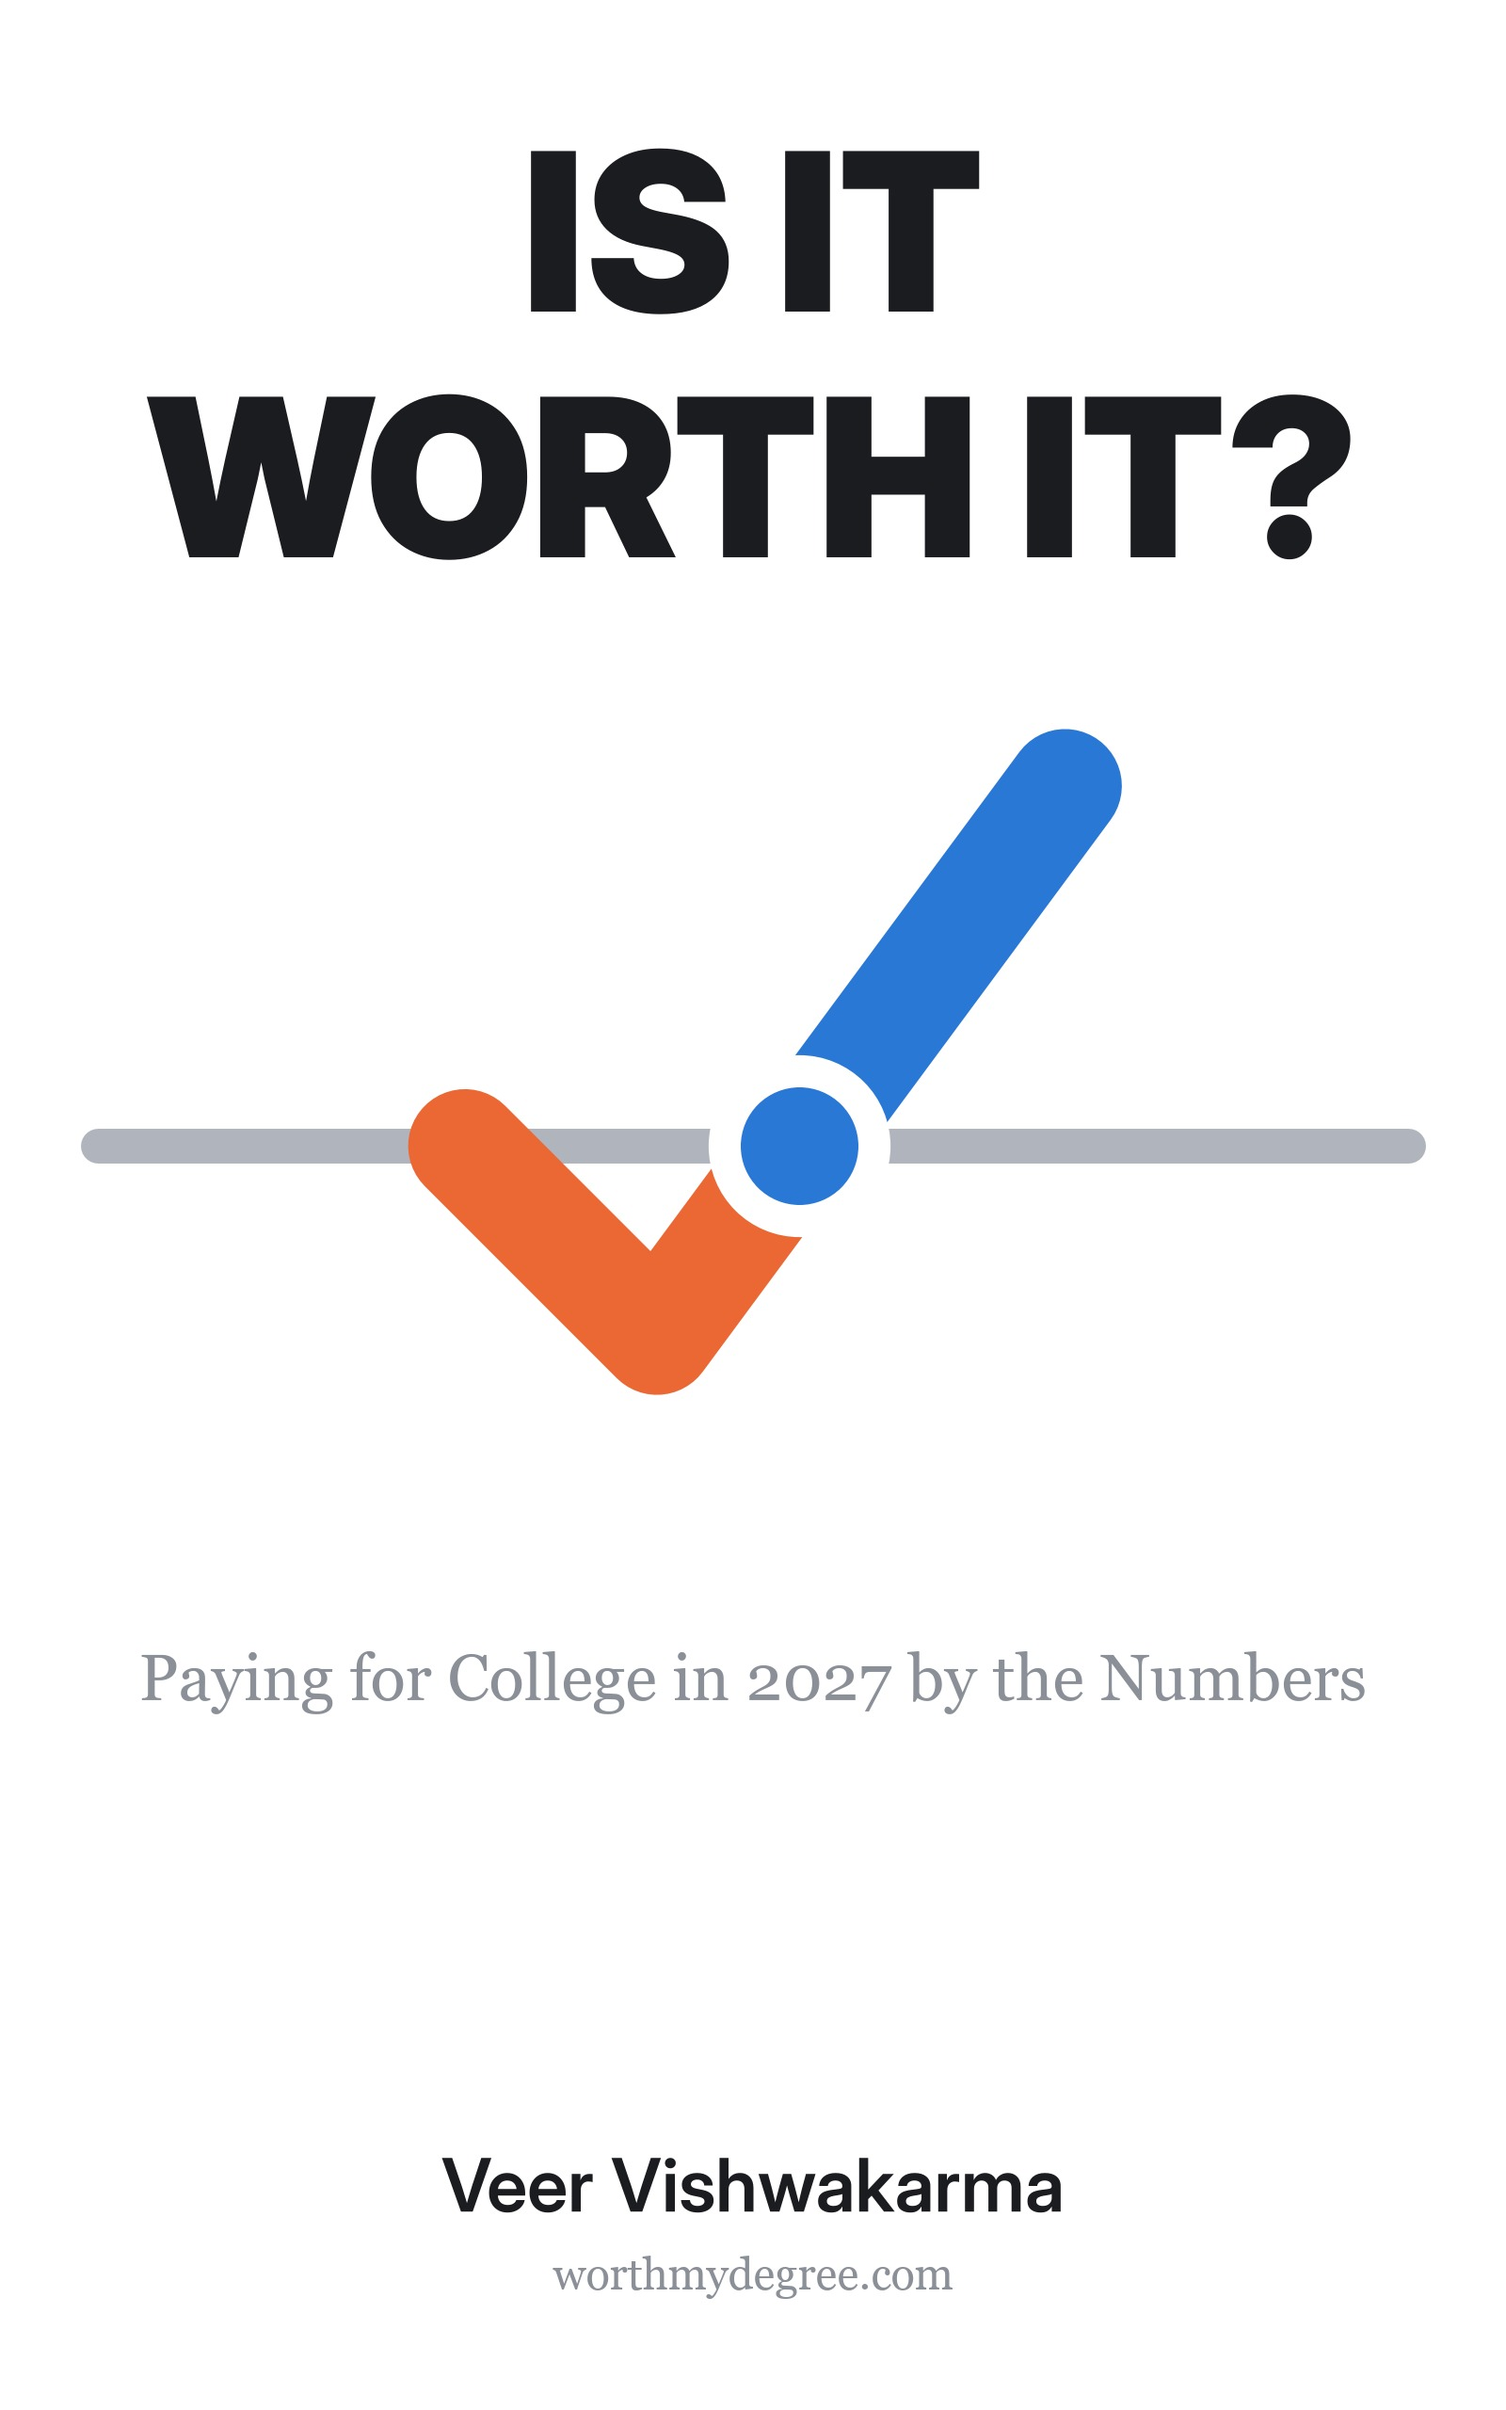
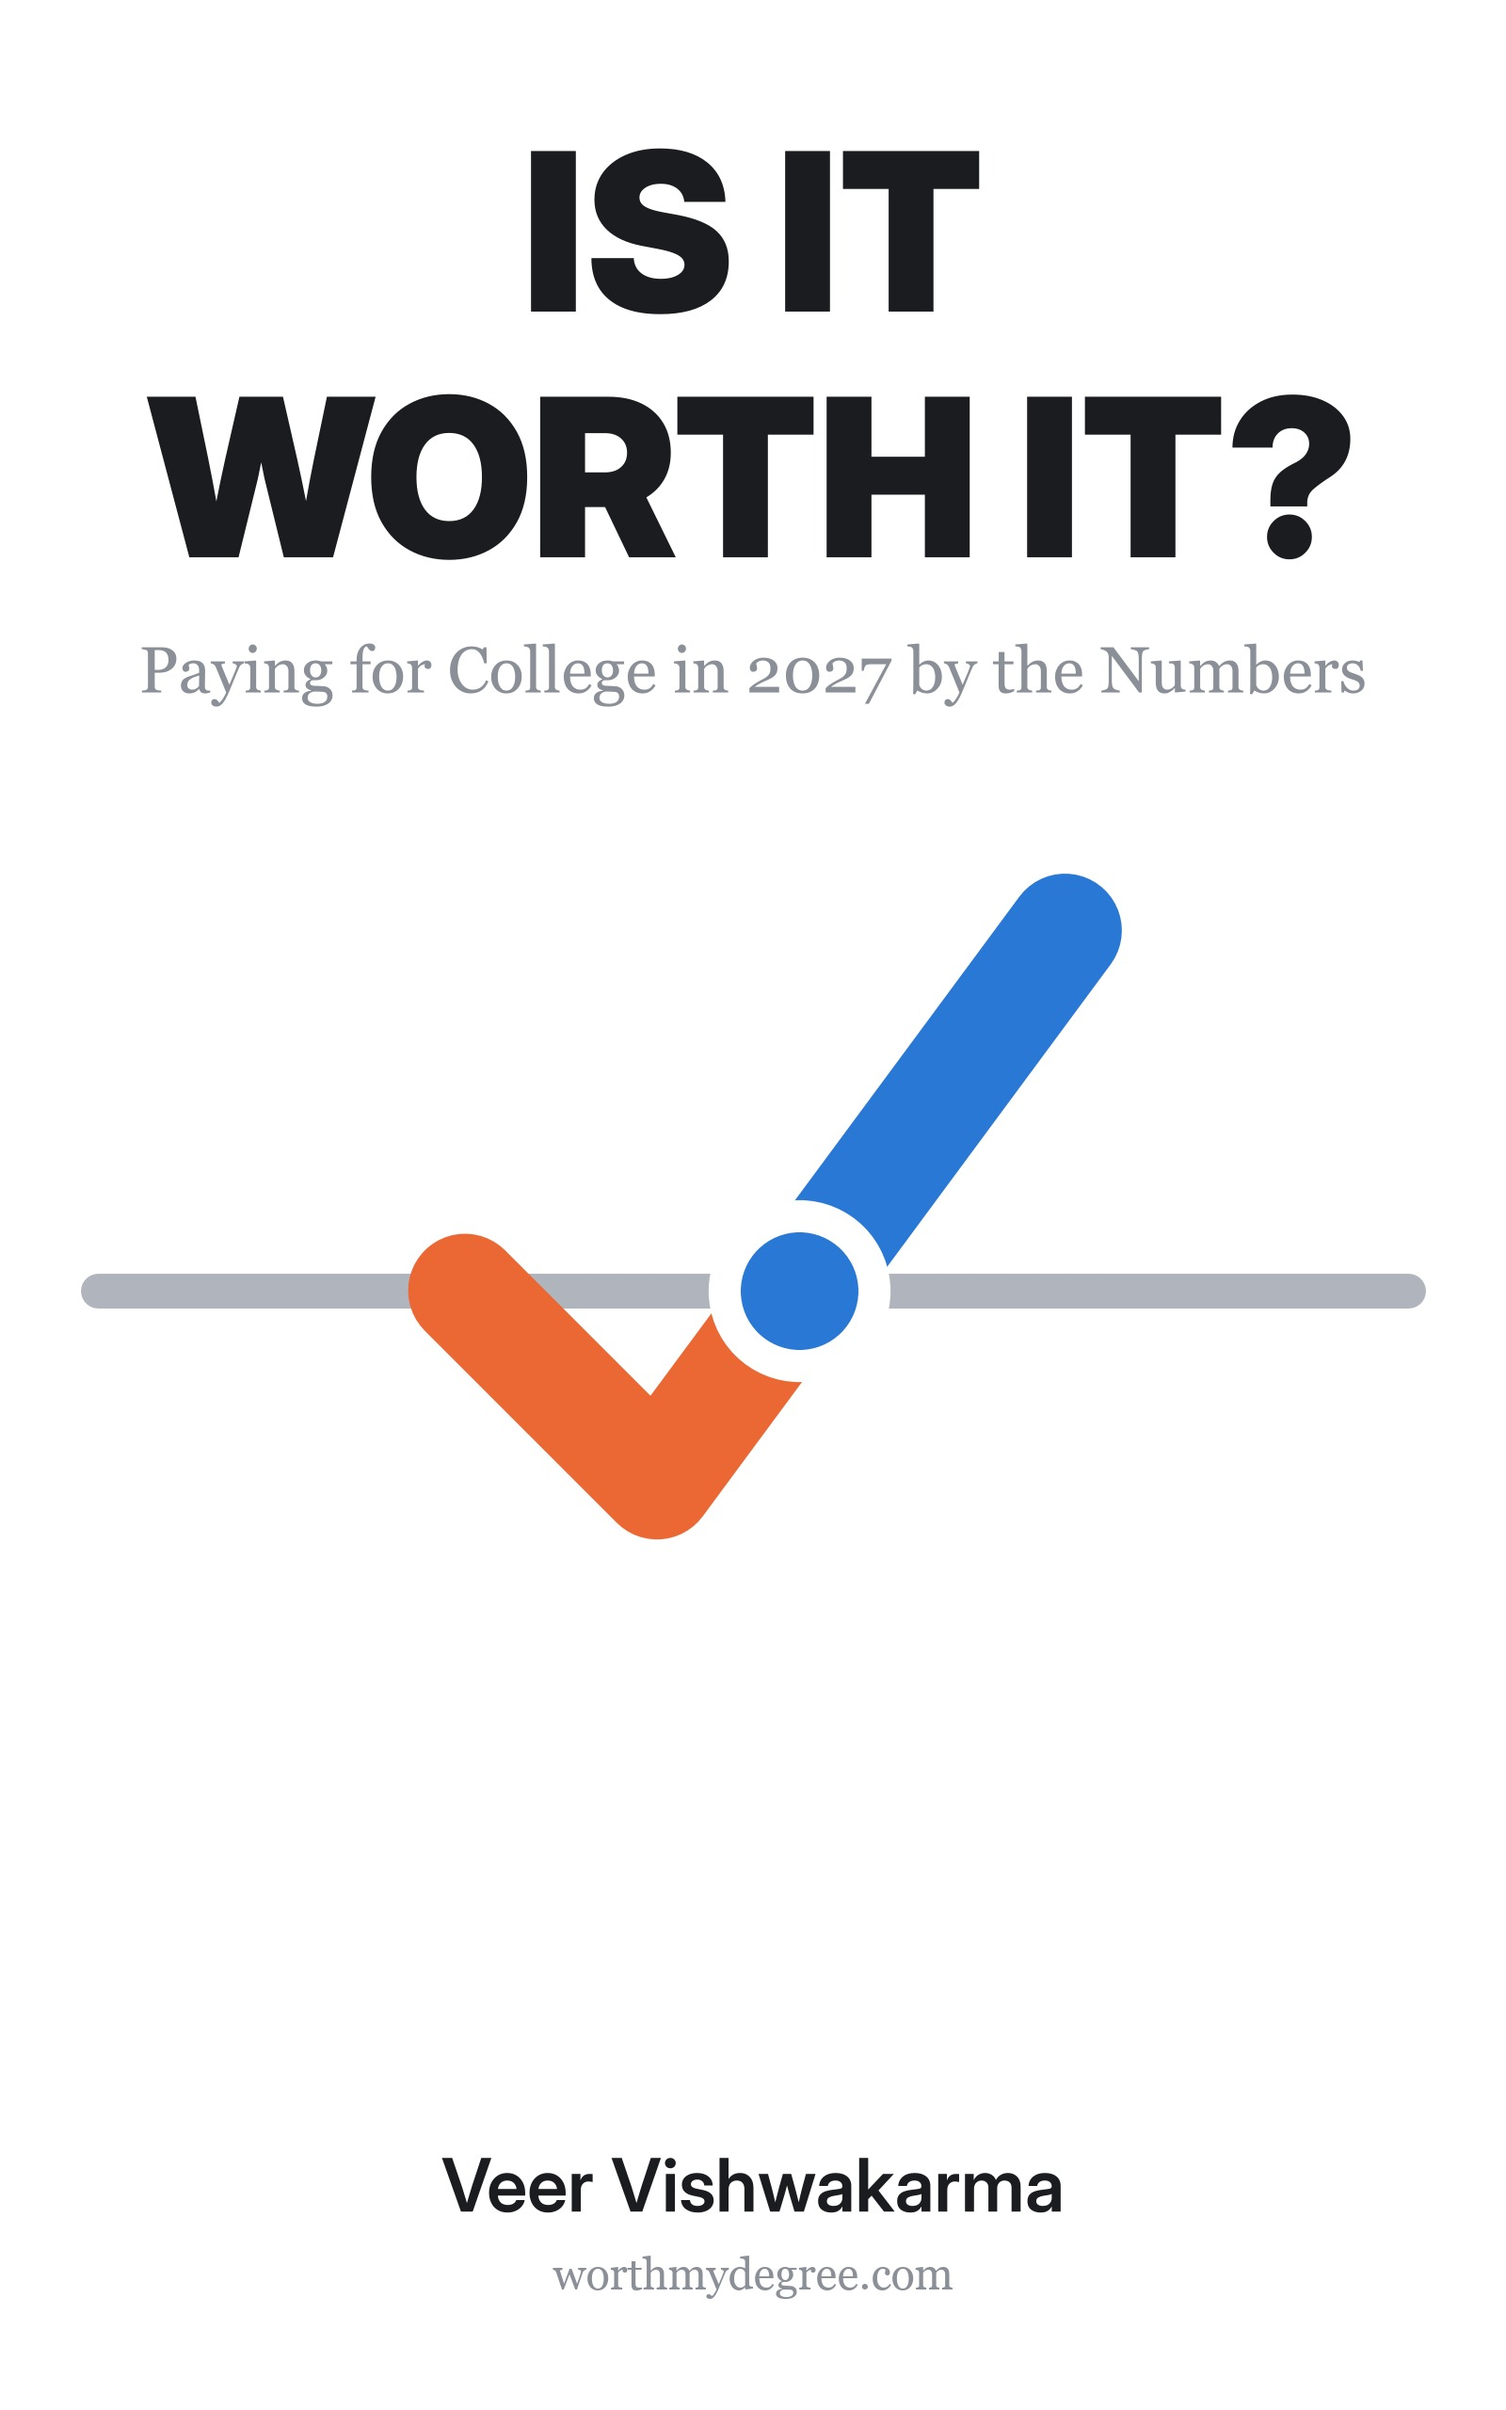
Cover wrap: worthmydegree.com on the spine (#343)
* Cover wrap: worthmydegree.com on the spine after the author

Claude-Session: https://claude.ai/code/session_012DeoHPSB76aTuNVN2G12N4

* Back cover: the author's wording, 'grant a degree' and 'The math does not tell you'

Claude-Session: https://claude.ai/code/session_012DeoHPSB76aTuNVN2G12N4

* Cover: the back's lead sentence in bold, the subtitle under the title

The author's two calls, 2026-09-18. The back panel's first sentence is set
in Source Serif 4 Bold through a **span** marker that _wrapped_rich reads,
so the bold and regular words share a line and wrap together. On the front
the subtitle moves from under the mark to under the title, and the mark
drops to keep its clearance. cover-mark.jpg is the Kindle cover and moves
with it.

Claude-Session: https://claude.ai/code/session_012DeoHPSB76aTuNVN2G12N4

---------

diff --git a/brand/build_book_cover.py b/brand/build_book_cover.py
@@ -106,8 +106,13 @@ TWO_QUESTIONS = ("Paying for college is two questions.\n"
 # do, not what it promises. $92,000 and the two counts are statutory or
 # computed, so none of them carries a tilde.
 BACK_COPY = (
-    "The federal government will lend a family $92,000 for one bachelor’s "
-    "degree. At 1,644 of the 2,235 colleges that grant one, four years of "
+    # THE LEAD SENTENCE IS BOLD, the author's call 2026-09-18. The ** marker is
+    # read by _wrapped_rich, which sets the words inside it in the bold face
+    # and the rest of the paragraph in the regular one, sharing lines.
+    "**The federal government will lend a family $92,000 for one bachelor’s "
+    # "grant a degree" is the author's wording, asked for twice (2026-09-16 and
+    # 2026-09-18) after the note that the 2,235 are bachelor's-granting colleges.
+    "degree.** At 1,644 of the 2,235 colleges that grant a degree, four years of "
     "the in-state sticker price costs more than that loan.\n\n"
     # BOTH RATES ARE THE NY FED'S 2026 Q2 RELEASE, in sources.md. The 42% is
     # the all-graduates figure. The computer science figure is the committed
@@ -124,7 +129,7 @@ BACK_COPY = (
     "the degree costs, and what the degree pays back.\n\n"
     "Nineteen chapters follow four families through the arithmetic. Every "
     "figure is computed from a federal source.\n\n"
-    "It does not tell you what to choose.\n\n"
+    "The math does not tell you what to choose.\n\n"
     # THE BIO IS THREE FACTS AND NO MORE, from the author on 2026-09-13: the
     # name, high school senior, built the calculator. No school and no city:
     # this is a minor's author bio on a book sold publicly, and neither fact
@@ -326,10 +331,12 @@ def draw_mark_cover(args):
     t = fig.text(0.5, 0.955, TITLE, fontproperties=DISPLAY_BLACK, fontsize=118, color=INK,
                  ha="center", va="top", linespacing=0.92, parse_math=False)
     fit(fig, t, 0.82)
-    mark(fig, 0.245, 0.395, 0.51, ring=WHITE, rule_span=(0.065, 0.935))
-    sub = fig.text(0.5, 0.315, SUBTITLE, fontname=BODY_F, fontsize=29,
+    # THE SUBTITLE SITS UNDER THE TITLE, the author's call 2026-09-18; it sat
+    # under the mark before. The mark moved down to keep its clearance.
+    sub = fig.text(0.5, under(fig, t, 0.018), SUBTITLE, fontname=BODY_F, fontsize=29,
                    color=MUTED, ha="center", va="top", parse_math=False)
     fit(fig, sub, 0.84)
+    mark(fig, 0.245, 0.335, 0.51, ring=WHITE, rule_span=(0.065, 0.935))
     byline(fig, INK, MUTED)
     return fig, [t, sub]
 
@@ -503,6 +510,38 @@ def _ink_for(bg):
     return (26, 28, 31) if lum > 0.5 else (247, 244, 238)
 
 
+def _wrapped_rich(draw, text, fonts, max_px):
+    """_wrapped with one extra rule: words inside a **span** are set in
+    fonts[1], everything else in fonts[0]. Returns, per paragraph, a list of
+    lines, each line a list of (word, font) so two weights can share a line."""
+    regular, bold = fonts
+    space = draw.textlength(" ", font=regular)
+    out = []
+    for para in text.split("\n\n"):
+        words, face = [], regular
+        for word in para.split():
+            if word.startswith("**"):
+                face, word = bold, word[2:]
+            closing = word.endswith("**")
+            if closing:
+                word = word[:-2]
+            words.append((word, face))
+            if closing:
+                face = regular
+        lines, line, width = [], [], 0.0
+        for word, fn in words:
+            w = draw.textlength(word, font=fn)
+            if line and width + space + w > max_px:
+                lines.append(line)
+                line, width = [(word, fn)], w
+            else:
+                width += (space if line else 0) + w
+                line.append((word, fn))
+        lines.append(line)
+        out.append(lines)
+    return out
+
+
 def _wrapped(draw, text, font, max_px):
     """Break a paragraph to a measured width. MEASURED, not counted."""
     out = []
@@ -567,6 +606,7 @@ def wrap(name):
 
     f = lambda ttf, size: ImageFont.truetype(str(FONT_DIR / ttf), pt(size))
     body = f("SourceSerif4-Regular.ttf", 11)
+    body_bold = f("SourceSerif4-Bold.ttf", 11)
     semi = f("InterDisplay-SemiBold.ttf", 12)
     black = f("InterDisplay-Black.ttf", 15)
 
@@ -576,9 +616,13 @@ def wrap(name):
     text_w = px(panel_w_in) - margin - px(0.55)
     y = px(BLEED_IN + 1.05)
     leading = pt(11) * 1.42
-    for para in _wrapped(d, BACK_COPY, body, text_w):
+    space = d.textlength(" ", font=body)
+    for para in _wrapped_rich(d, BACK_COPY, (body, body_bold), text_w):
         for line in para:
-            d.text((margin, y), line, font=body, fill=ink)
+            x = margin
+            for word, fn in line:
+                d.text((x, y), word, font=fn, fill=ink)
+                x += d.textlength(word, font=fn) + space
             y += leading
         y += leading * 0.55
     back_text_bottom = y
@@ -607,15 +651,19 @@ def wrap(name):
                 break
         else:
             raise SystemExit("  refusing: no spine size clears the safe zone")
+        # THREE THINGS ON THE SPINE: title, author, site. The site went on at
+        # the author's request 2026-09-18; it is the one line of the book a
+        # shelf shows, and the URL is the book's whole call to action.
         gap = sd.textlength("     ", font=black)
-        total = sd.textlength(label, font=black) + gap + sd.textlength(auth, font=semi)
+        parts = [(label, black), (auth, semi), (SITE, semi)]
+        total = sum(sd.textlength(t, font=fn) for t, fn in parts) + gap * (len(parts) - 1)
         if total > H_px - px(1.0):
             raise SystemExit("  refusing: the spine line is longer than the spine")
         sx = (H_px - total) / 2
         sy = (px(spine_in) - (black.getbbox(label)[3] - black.getbbox(label)[1])) / 2
-        sd.text((sx, sy - black.getbbox(label)[1]), label, font=black, fill=ink)
-        sd.text((sx + sd.textlength(label, font=black) + gap,
-                 sy - semi.getbbox(auth)[1]), auth, font=semi, fill=ink)
+        for t, fn in parts:
+            sd.text((sx, sy - fn.getbbox(t)[1]), t, font=fn, fill=ink)
+            sx += sd.textlength(t, font=fn) + gap
         # TOP TO BOTTOM, which is the US convention and the one Amazon's own
         # shelf photographs follow: rotate(90) is counter-clockwise and set
         # the spine reading upwards, so the author's name arrived above the
